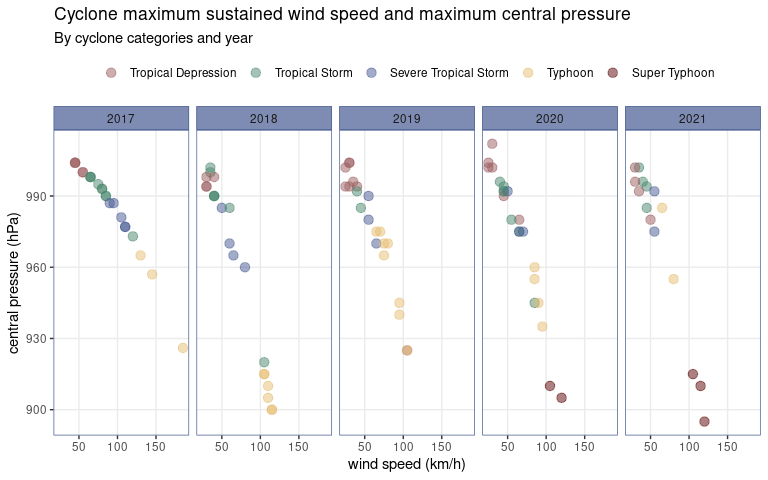
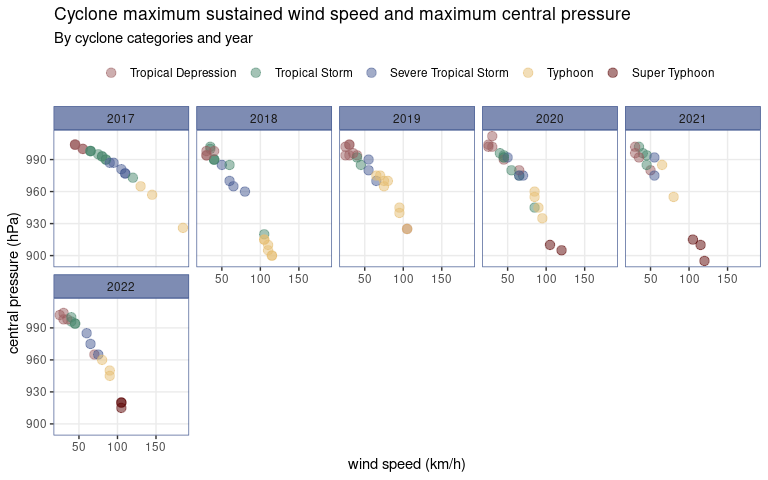
prepare for v0.2.0 release

diff --git a/README.md b/README.md
@@ -48,7 +48,7 @@ Atmospheric, Geophysical, and Astronomical Services Administration
 (PAGASA)](https://www.pagasa.dost.gov.ph/).
 
 This package contains Philippine tropical cyclones data from 2017 to
-2020 in a machine-readable format. It is hoped that this data package
+2021 in a machine-readable format. It is hoped that this data package
 provides an interesting and unique dataset for data exploration and
 visualisation as an adjunct to the traditional
 [`iris`](https://stat.ethz.ch/R-manual/R-devel/library/datasets/html/iris.html)
@@ -82,7 +82,7 @@ library(bagyo)
 data(package = "bagyo")
 
 bagyo
-#> # A tibble: 101 × 9
+#> # A tibble: 119 × 9
 #>     year category_code category_name         name  rsmc_name start              
 #>    <dbl> <fct>         <fct>                 <chr> <chr>     <dttm>             
 #>  1  2017 TD            Tropical Depression   Auri… <NA>      2017-01-07 08:00:00
@@ -95,7 +95,7 @@ bagyo
 #>  8  2017 TS            Tropical Storm        Huan… Haitang   2017-07-30 02:00:00
 #>  9  2017 STS           Severe Tropical Storm Isang Hato      2017-08-20 08:00:00
 #> 10  2017 TS            Tropical Storm        Joli… Pakhar    2017-08-24 14:00:00
-#> # ℹ 91 more rows
+#> # ℹ 109 more rows
 #> # ℹ 3 more variables: end <dttm>, pressure <int>, speed <int>
 ```
 
@@ -117,11 +117,11 @@ bagyo |>
 #> # A tibble: 5 × 4
 #>   category_name             n mean_pressure mean_speed
 #>   <fct>                 <int>         <dbl>      <dbl>
-#> 1 Tropical Depression      27          995.       39.3
-#> 2 Tropical Storm           29          987.       58.8
-#> 3 Severe Tropical Storm    17          979.       72.6
-#> 4 Typhoon                  23          943.       99.1
-#> 5 Super Typhoon             5          907       113
+#> 1 Tropical Depression      32          995.       39.1
+#> 2 Tropical Storm           33          988.       56.8
+#> 3 Severe Tropical Storm    20          978.       71.8
+#> 4 Typhoon                  26          944.       97.7
+#> 5 Super Typhoon             8          911.      110
 ```
 
 ### `bagyo` is useful in learning how to work with dates
@@ -135,11 +135,11 @@ bagyo |>
 #> # A tibble: 5 × 2
 #>   category_name         mean_duration  
 #>   <fct>                 <drtn>         
-#> 1 Tropical Depression    45.29630 hours
-#> 2 Tropical Storm         61.03448 hours
-#> 3 Severe Tropical Storm  81.29412 hours
-#> 4 Typhoon               110.04348 hours
-#> 5 Super Typhoon         115.60000 hours
+#> 1 Tropical Depression    46.01562 hours
+#> 2 Tropical Storm         60.36364 hours
+#> 3 Severe Tropical Storm  80.58333 hours
+#> 4 Typhoon               105.37821 hours
+#> 5 Super Typhoon          97.06250 hours
 ```
 
 ### `bagyo` is great to visualise

diff --git a/NEWS.md b/NEWS.md
@@ -1,7 +1,8 @@
-# bagyo v0.1.1.9000
+# bagyo v0.2.0
 
+* added R (>= 4.1.0) dependency for use of base pipe operator
 * added CRAN DOI badge
-* added 2021 typhoon data
+* added 2021 and 2022 typhoon data
 * added utility unexported function to download cyclone reports
 
 
